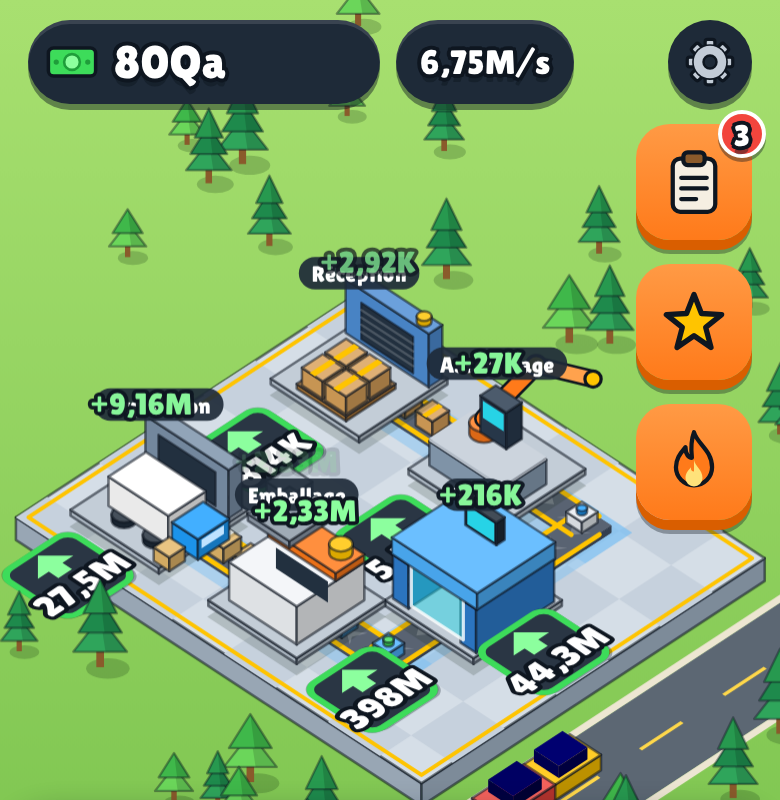
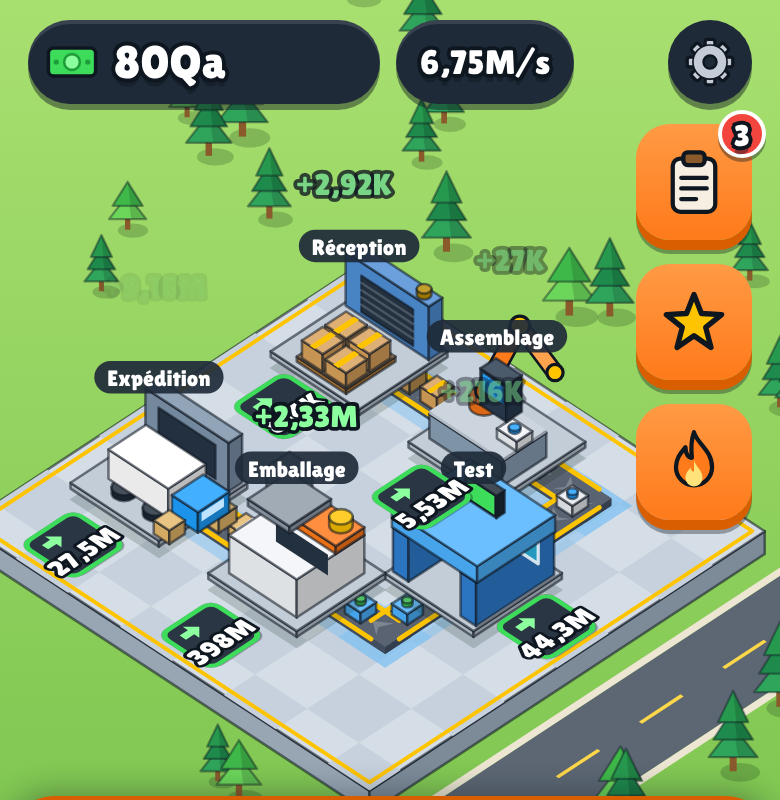
TACHES.md : relecture cloud de U2b (3 defauts de placement des plaques) ; usine-web : plaques repositionnees, dalle 7,8 x 7,6, nouvelle cible
Claude-Session: https://claude.ai/code/session_01M9uc8UVoBVopgH3BqV8kLi

diff --git a/usine-web/idle-securite-usine.html b/usine-web/idle-securite-usine.html
@@ -790,11 +790,11 @@ function updateTurbo() {
 /* ——— scène isométrique ——— */
 var cv = $('#scene'), ctx = cv.getContext('2d');
 var W = 0, H = 0, DPR = 1, SC = 1, OX = 0, OY = 0, HW = 32, HH = 21, ZU = 30, hudH = 62;
-var FLOOR = { w: 7.8, d: 6.6 };
+var FLOOR = { w: 7.8, d: 7.6 };
 var LAY = [{ x: .55, y: .55 }, { x: 3.2, y: .55 }, { x: 4.9, y: 2.7 }, { x: 3.2, y: 4.4 }, { x: .55, y: 4.4 }];
 var SZ = 1.6;
-var PLATE = [{ x: 1.35, y: 3.3 }, { x: 4.0, y: 3.2 }, { x: 7.05, y: 3.5 }, { x: 4.0, y: 6.9 }, { x: 1.35, y: 6.9 }];
-PLATE[3] = { x: 5.95, y: 5.7 }; PLATE[4] = { x: 1.35, y: 6.95 };
+// plaques de 1 x 1 : chacune à côté de son poste, jamais sur un tapis ni hors de la dalle
+var PLATE = [{ x: 1.35, y: 2.8 }, { x: 4.0, y: 2.8 }, { x: 7.1, y: 3.5 }, { x: 4.0, y: 6.85 }, { x: 1.35, y: 6.85 }];
 var BELTS = [
   [[2.15, 1.35], [3.2, 1.35]],
   [[4.8, 1.35], [5.7, 1.35], [5.7, 2.7]],
@@ -1044,7 +1044,7 @@ function drawPlate(i, t) {
   else { var cost = C(ST[i].unlock * G.cost); label = fmt(cost); afford = S.cash >= cost; o = { kind: 'unlock', i: i }; }
   var p = P(Pl.x, Pl.y, 0), k = SC / 40, pulse = afford ? 1 + .05 * Math.sin(t * 6) : 1;
   var isBest = bestOpt && bestOpt.i === i;
-  ctx.save(); ctx.translate(p[0], p[1]); ctx.transform(HW * k * pulse, -HH * k * pulse, HW * k * pulse, HH * k * pulse, 0, 0);
+  ctx.save(); ctx.translate(p[0], p[1]); ctx.transform(HW * k * pulse, -HH * k * pulse, HW * k * pulse, HH * k * pulse, 0, 0); ctx.scale(.8, .8);
   rr(-27, -27, 54, 54, 9); ctx.fillStyle = 'rgba(14,22,32,.28)'; ctx.fill();
   ctx.save(); ctx.translate(2, 3); rr(-25, -25, 50, 50, 8); ctx.fillStyle = 'rgba(14,22,32,.3)'; ctx.fill(); ctx.restore();
   rr(-25, -25, 50, 50, 8); ctx.fillStyle = state === 'open' ? '#2A3644' : '#26323F'; ctx.fill();
@@ -1060,15 +1060,16 @@ function drawPlate(i, t) {
   ctx.lineJoin = 'round'; ctx.lineWidth = 5; ctx.strokeStyle = '#0E1620'; ctx.strokeText(label, 0, 11); ctx.fillStyle = afford ? '#fff' : '#C3CCD7'; ctx.fillText(label, 0, 11);
   ctx.restore();
   var half = 27 * 1.5 * k;
-  plateHit.push({ i: i, kind: o.kind, axis: o.axis, p: p, k: k, hit: 27 * 1.55 });
+  plateHit.push({ i: i, kind: o.kind, axis: o.axis, p: p, k: k, hit: 27 * .8 * 1.5 });
 }
-function plateAt(px, py) {
-  for (var n = plateHit.length - 1; n >= 0; n--) {
-    var h = plateHit[n], dx = px - h.p[0], dy = py - h.p[1], a = HW * h.k, b = -HH * h.k, c = HW * h.k, d = HH * h.k, det = a * d - b * c;
-    var u = (d * dx - c * dy) / det, v = (-b * dx + a * dy) / det;
-    if (Math.abs(u) <= h.hit && Math.abs(v) <= h.hit) return h;
-  }
-  return null;
+function plateAt(px, py) {   // la plaque la plus proche du doigt, dans sa zone élargie
+  var best = null, bd = 1e9;
+  plateHit.forEach(function (h) {
+    var dx = px - h.p[0], dy = py - h.p[1], a = HW * h.k, b = -HH * h.k, c = HW * h.k, d = HH * h.k, det = a * d - b * c;
+    var u = (d * dx - c * dy) / det, v = (-b * dx + a * dy) / det, m = Math.max(Math.abs(u), Math.abs(v));
+    if (m <= h.hit && m < bd) { bd = m; best = h; }
+  });
+  return best;
 }
 cv.addEventListener('click', function (e) {
   var r = cv.getBoundingClientRect(), h = plateAt(e.clientX - r.left, e.clientY - r.top);
@@ -1145,7 +1146,7 @@ function draw(dt) {
       var tp = P(L.x + SZ / 2, L.y + SZ / 2, 2.15); tag(ST[i].name, tp[0], tp[1] - 4 * SC);
     } });
     else if (state !== 'far' || true) items.push({ d: L.x + L.y + SZ, f: function () { ghostDraw(i, state === 'next', tAnim); } });
-    items.push({ d: PLATE[i].x + PLATE[i].y + .9, f: function () { drawPlate(i, tAnim); } });
+    items.push({ d: 500 + PLATE[i].x + PLATE[i].y, f: function () { drawPlate(i, tAnim); } });   // toujours dessinées par-dessus : jamais cachées par une machine
   })(i);
   items.sort(function (a, b) { return a.d - b.d; }); items.forEach(function (it) { it.f(); });
   // textes flottants

diff --git a/usine-web/src/template.html b/usine-web/src/template.html
@@ -701,11 +701,11 @@ function updateTurbo() {
 /* ——— scène isométrique ——— */
 var cv = $('#scene'), ctx = cv.getContext('2d');
 var W = 0, H = 0, DPR = 1, SC = 1, OX = 0, OY = 0, HW = 32, HH = 21, ZU = 30, hudH = 62;
-var FLOOR = { w: 7.8, d: 6.6 };
+var FLOOR = { w: 7.8, d: 7.6 };
 var LAY = [{ x: .55, y: .55 }, { x: 3.2, y: .55 }, { x: 4.9, y: 2.7 }, { x: 3.2, y: 4.4 }, { x: .55, y: 4.4 }];
 var SZ = 1.6;
-var PLATE = [{ x: 1.35, y: 3.3 }, { x: 4.0, y: 3.2 }, { x: 7.05, y: 3.5 }, { x: 4.0, y: 6.9 }, { x: 1.35, y: 6.9 }];
-PLATE[3] = { x: 5.95, y: 5.7 }; PLATE[4] = { x: 1.35, y: 6.95 };
+// plaques de 1 x 1 : chacune à côté de son poste, jamais sur un tapis ni hors de la dalle
+var PLATE = [{ x: 1.35, y: 2.8 }, { x: 4.0, y: 2.8 }, { x: 7.1, y: 3.5 }, { x: 4.0, y: 6.85 }, { x: 1.35, y: 6.85 }];
 var BELTS = [
   [[2.15, 1.35], [3.2, 1.35]],
   [[4.8, 1.35], [5.7, 1.35], [5.7, 2.7]],
@@ -955,7 +955,7 @@ function drawPlate(i, t) {
   else { var cost = C(ST[i].unlock * G.cost); label = fmt(cost); afford = S.cash >= cost; o = { kind: 'unlock', i: i }; }
   var p = P(Pl.x, Pl.y, 0), k = SC / 40, pulse = afford ? 1 + .05 * Math.sin(t * 6) : 1;
   var isBest = bestOpt && bestOpt.i === i;
-  ctx.save(); ctx.translate(p[0], p[1]); ctx.transform(HW * k * pulse, -HH * k * pulse, HW * k * pulse, HH * k * pulse, 0, 0);
+  ctx.save(); ctx.translate(p[0], p[1]); ctx.transform(HW * k * pulse, -HH * k * pulse, HW * k * pulse, HH * k * pulse, 0, 0); ctx.scale(.8, .8);
   rr(-27, -27, 54, 54, 9); ctx.fillStyle = 'rgba(14,22,32,.28)'; ctx.fill();
   ctx.save(); ctx.translate(2, 3); rr(-25, -25, 50, 50, 8); ctx.fillStyle = 'rgba(14,22,32,.3)'; ctx.fill(); ctx.restore();
   rr(-25, -25, 50, 50, 8); ctx.fillStyle = state === 'open' ? '#2A3644' : '#26323F'; ctx.fill();
@@ -971,15 +971,16 @@ function drawPlate(i, t) {
   ctx.lineJoin = 'round'; ctx.lineWidth = 5; ctx.strokeStyle = '#0E1620'; ctx.strokeText(label, 0, 11); ctx.fillStyle = afford ? '#fff' : '#C3CCD7'; ctx.fillText(label, 0, 11);
   ctx.restore();
   var half = 27 * 1.5 * k;
-  plateHit.push({ i: i, kind: o.kind, axis: o.axis, p: p, k: k, hit: 27 * 1.55 });
+  plateHit.push({ i: i, kind: o.kind, axis: o.axis, p: p, k: k, hit: 27 * .8 * 1.5 });
 }
-function plateAt(px, py) {
-  for (var n = plateHit.length - 1; n >= 0; n--) {
-    var h = plateHit[n], dx = px - h.p[0], dy = py - h.p[1], a = HW * h.k, b = -HH * h.k, c = HW * h.k, d = HH * h.k, det = a * d - b * c;
-    var u = (d * dx - c * dy) / det, v = (-b * dx + a * dy) / det;
-    if (Math.abs(u) <= h.hit && Math.abs(v) <= h.hit) return h;
-  }
-  return null;
+function plateAt(px, py) {   // la plaque la plus proche du doigt, dans sa zone élargie
+  var best = null, bd = 1e9;
+  plateHit.forEach(function (h) {
+    var dx = px - h.p[0], dy = py - h.p[1], a = HW * h.k, b = -HH * h.k, c = HW * h.k, d = HH * h.k, det = a * d - b * c;
+    var u = (d * dx - c * dy) / det, v = (-b * dx + a * dy) / det, m = Math.max(Math.abs(u), Math.abs(v));
+    if (m <= h.hit && m < bd) { bd = m; best = h; }
+  });
+  return best;
 }
 cv.addEventListener('click', function (e) {
   var r = cv.getBoundingClientRect(), h = plateAt(e.clientX - r.left, e.clientY - r.top);
@@ -1056,7 +1057,7 @@ function draw(dt) {
       var tp = P(L.x + SZ / 2, L.y + SZ / 2, 2.15); tag(ST[i].name, tp[0], tp[1] - 4 * SC);
     } });
     else if (state !== 'far' || true) items.push({ d: L.x + L.y + SZ, f: function () { ghostDraw(i, state === 'next', tAnim); } });
-    items.push({ d: PLATE[i].x + PLATE[i].y + .9, f: function () { drawPlate(i, tAnim); } });
+    items.push({ d: 500 + PLATE[i].x + PLATE[i].y, f: function () { drawPlate(i, tAnim); } });   // toujours dessinées par-dessus : jamais cachées par une machine
   })(i);
   items.sort(function (a, b) { return a.d - b.d; }); items.forEach(function (it) { it.f(); });
   // textes flottants

diff --git a/unity/TACHES.md b/unity/TACHES.md
@@ -631,6 +631,15 @@ Vu sur `U2a-scene-390x844.png` : dalle en damier au bon endroit et à la bonne t
 4. Captures `U2b-*.png` avec tous les postes en fantômes sauf la Réception, puis avec 2 postes ouverts (triche d'argent dans un outil d'éditeur, pas dans le jeu).
 Rythme : bonne cadence (U1 puis U2a en moins d'une heure). Continue dans cet ordre : U2b, U2c (une machine par poussée), U2d, U3a-d, U4.
 
+## Relecture cloud de U2b : tapis et logique de plaques VALIDÉS ; 3 défauts de PLACEMENT trouvés (dont 2 hérités de ma référence web, corrigée) à reprendre avant U2c
+Bien : les 4 tapis avec caisses de couleurs, les plaques lisibles avec flèche, prix et « NOUVEAU », le vert quand c'est abordable, `IdleGame.BuyPlate` qui passe par la même logique que les boutons, 130 tests. Défauts, un par ligne :
+1. **La plaque d'Expédition est HORS de la dalle et coupée à gauche de l'écran** (`92,1M` à moitié visible sur `U2b-tapis-plaques`), et la plaque d'Emballage **chevauche un tapis** (`1,7K` sur les caisses bleues). C'était une faute de ma référence web (positions 4 et 5 de `PLATE`) : **je l'ai corrigée** (web republié, nouvelle cible `usine-web/captures/cible-scene-5-postes.png`).
+2. **Nouvelles positions à copier** (plan x, y du web) : `Plates = (1,35 ; 2,8), (4,0 ; 2,8), (7,1 ; 3,5), (4,0 ; 6,85), (1,35 ; 6,85)` (Réception, Assemblage, Test, Emballage, Expédition) : chaque plaque est **devant son poste** (les deux du bas sont devant Emballage et Expédition), jamais sur un tapis. **`FloorDepth` passe de 6,6 à 7,6** (la dalle est un peu plus profonde pour loger les deux plaques du bas ; mettre à jour `slabSize` de `IdleCameraRig` : le calcul de cadrage suit tout seul) ; les arbres et la route se recalculent avec la dalle.
+3. **Taille des plaques : 1,0 x 1,0** (et non ~1,24), avec une **zone tactile de 1,5 x 1,5** ; si deux zones se recouvrent, **la plaque la plus proche du doigt gagne** (voir `plateAt` du web).
+4. **Les plaques ne doivent jamais être cachées par une machine** : donner au matériau des plaques `ZTest Always` et une file de rendu au-dessus de tout le décor (équivalent du web, qui les dessine en dernier).
+5. **Prix qui déborde de la plaque** : `14,4K` dépasse du cadre sur `U2b-2-postes`. Utiliser `PriceFit` (ou réduire le corps du texte selon la longueur : le web passe de 22 à 17 au-delà de 5 caractères) pour qu'un prix tienne toujours dans la plaque.
+**Ensuite U2c** : une machine par poussée (Réception d'abord), mêmes proportions que `stationDraw` du web (voir `cible-scene-5-postes.png`) ; les fantômes disparaissent quand le poste est ouvert ; étiquette de poste (pastille sombre, nom en blanc) au-dessus de chaque machine ouverte.
+
 ## PROTOCOLE DE NUIT — communication cloud <-> local (à suivre à la lettre ; Sébastien veut « aucun souci, il faut que vous communiquiez »)
 1. **Après chaque étape poussée** : `git pull --rebase`, relire `TACHES.md` (mes relectures et la suite), puis **enchaîner sans attendre** l'étape suivante de la file d'attente.
 2. **Voyant de vie** : à chaque poussée, et **au moins toutes les 45 minutes pendant un long travail**, écraser `unity/STATUT_LOCAL.md` (créer le fichier) avec : date et heure, étape en cours, état (`en cours` / `bloqué` / `terminé`), dernier numéro de build, prochaines actions, problème éventuel. Le cloud le lit à chaque contrôle ; un statut vieux de plus de 90 minutes sera signalé à Sébastien comme un silence.
